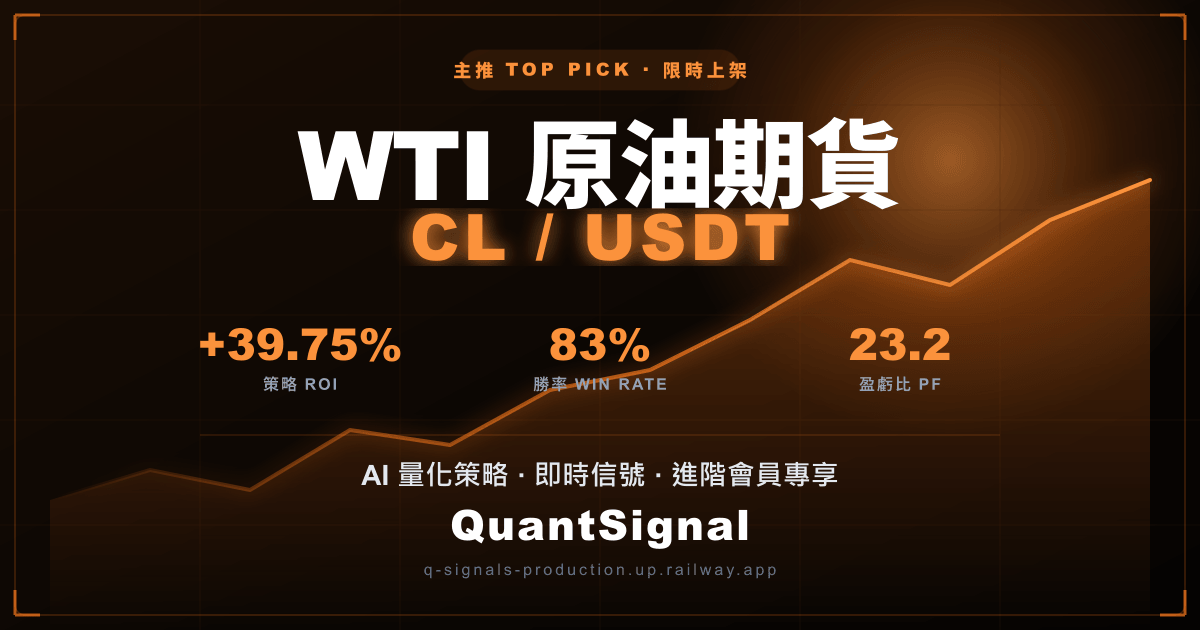
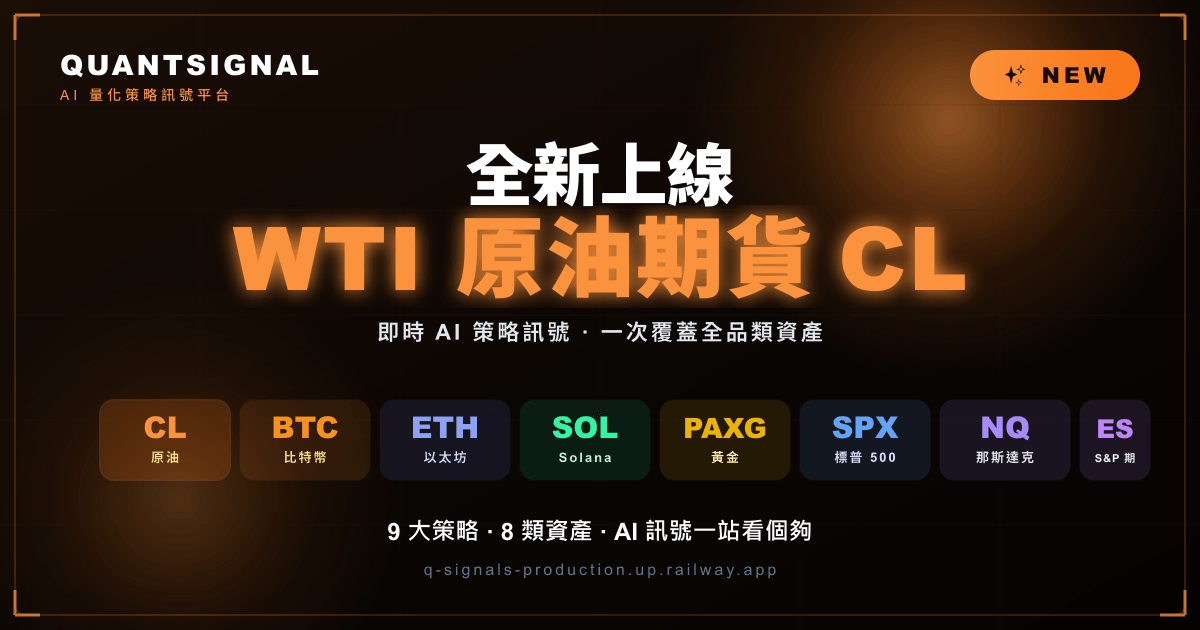
feat(og): v2 OG image — new WTI oil launch + full asset lineup
- Remove performance numbers per request
- Hero: "全新上線 WTI 原油期貨 CL" with NEW badge
- Asset chips row showcasing all 8 supported assets
  (CL highlighted, BTC, ETH, SOL, PAXG, SPX, NQ, ES)
- Footer: "9 大策略 · 8 類資產 · AI 訊號一站看個夠"
- Update og/twitter title & description to emphasize multi-asset coverage
- Bump cache buster to ?v=oil2

diff --git a/public/index.html b/public/index.html
@@ -9,16 +9,16 @@
   <!-- Open Graph / Facebook -->
   <meta property="og:type" content="website" />
   <meta property="og:url" content="https://q-signals-production.up.railway.app/" />
-  <meta property="og:title" content="QuantSignal — WTI 原油期貨 AI 量化信號 · 勝率 83%" />
-  <meta property="og:description" content="主推 CL 原油期貨 AI 量化策略，ROI +39.75%、勝率 83%、盈虧比 23.2。即時信號、進階會員專享，支援 BTC、ETH、黃金、美股期貨等多資產。" />
-  <meta property="og:image" content="https://q-signals-production.up.railway.app/og-image.png?v=oil" />
+  <meta property="og:title" content="QuantSignal — WTI 原油期貨全新上線！AI 訊號一站看個夠" />
+  <meta property="og:description" content="全新上線 CL 原油期貨 AI 策略訊號，加上 BTC、ETH、SOL、PAXG 黃金、SPX / NQ / ES 美股期貨，9 大策略 × 8 類資產，即時訊號一站式看完。進階會員專享。" />
+  <meta property="og:image" content="https://q-signals-production.up.railway.app/og-image.png?v=oil2" />
   <meta property="og:image:width" content="1200" />
   <meta property="og:image:height" content="630" />
   <!-- Twitter Card -->
   <meta name="twitter:card" content="summary_large_image" />
-  <meta name="twitter:title" content="QuantSignal — WTI 原油期貨 AI 量化信號 · 勝率 83%" />
-  <meta name="twitter:description" content="主推 CL 原油期貨 AI 量化策略，ROI +39.75%、勝率 83%、盈虧比 23.2。即時信號、進階會員專享。" />
-  <meta name="twitter:image" content="https://q-signals-production.up.railway.app/og-image.png?v=oil" />
+  <meta name="twitter:title" content="QuantSignal — WTI 原油期貨全新上線！AI 訊號一站看個夠" />
+  <meta name="twitter:description" content="全新上線 CL 原油期貨，加上 BTC、ETH、SOL、PAXG、SPX / NQ / ES，9 大 AI 策略 × 8 類資產，即時訊號一站式看完。" />
+  <meta name="twitter:image" content="https://q-signals-production.up.railway.app/og-image.png?v=oil2" />
   <script src="https://cdn.tailwindcss.com?plugins=forms,container-queries"></script>
   <script src="https://cdn.jsdelivr.net/npm/@supabase/supabase-js@2"></script>
   <script src="/js/auth.js"></script>
